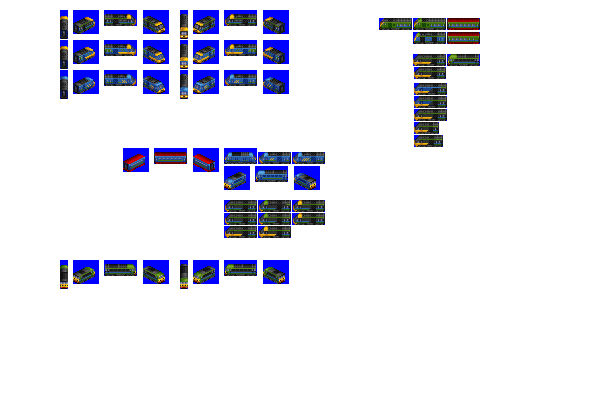
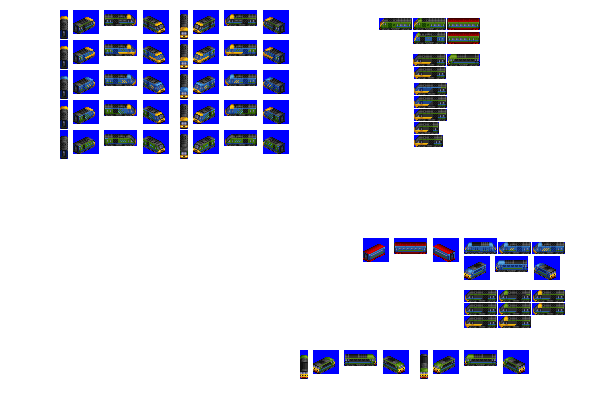
Change: move Scorcher sprites to be additional variants of Blaze; make Blaze LGV capable; adjust Scorcher stats preparatory to making it an IEP-thing

diff --git a/src/vehicles/scorcher.py b/src/vehicles/scorcher.py
@@ -8,9 +8,10 @@ def main(roster_id):
         base_numeric_id=12360,
         name="Scorcher HST",
         role="hst",  # quite a specific role, may or may not scale to other rosters
-        role_child_branch_num=1,
+        role_child_branch_num=-1,
         power_by_power_source={
-            "DIESEL": 5850,
+            "DIESEL": 5500,
+            "AC": 7200,
         },
         intro_year_offset=-10,  # let's be a little bit earlier for this one - keep match to HST coaches
         gen=6,

diff --git a/src/vehicles/blaze.py b/src/vehicles/blaze.py
@@ -14,7 +14,8 @@ def main(roster_id):
         },
         intro_year_offset=-10,  # let's be a little bit earlier for this one - keep coaches matched
         gen=5,
-        additional_liveries=["BLUE_GREY", "GNER"],
+        lgv_capable=True,  # for lolz
+        additional_liveries=["BLUE_GREY", "GNER", "SWOOSH_1995", "SWOOSH_2_1995"],
         sprites_complete=True,
     )
 
